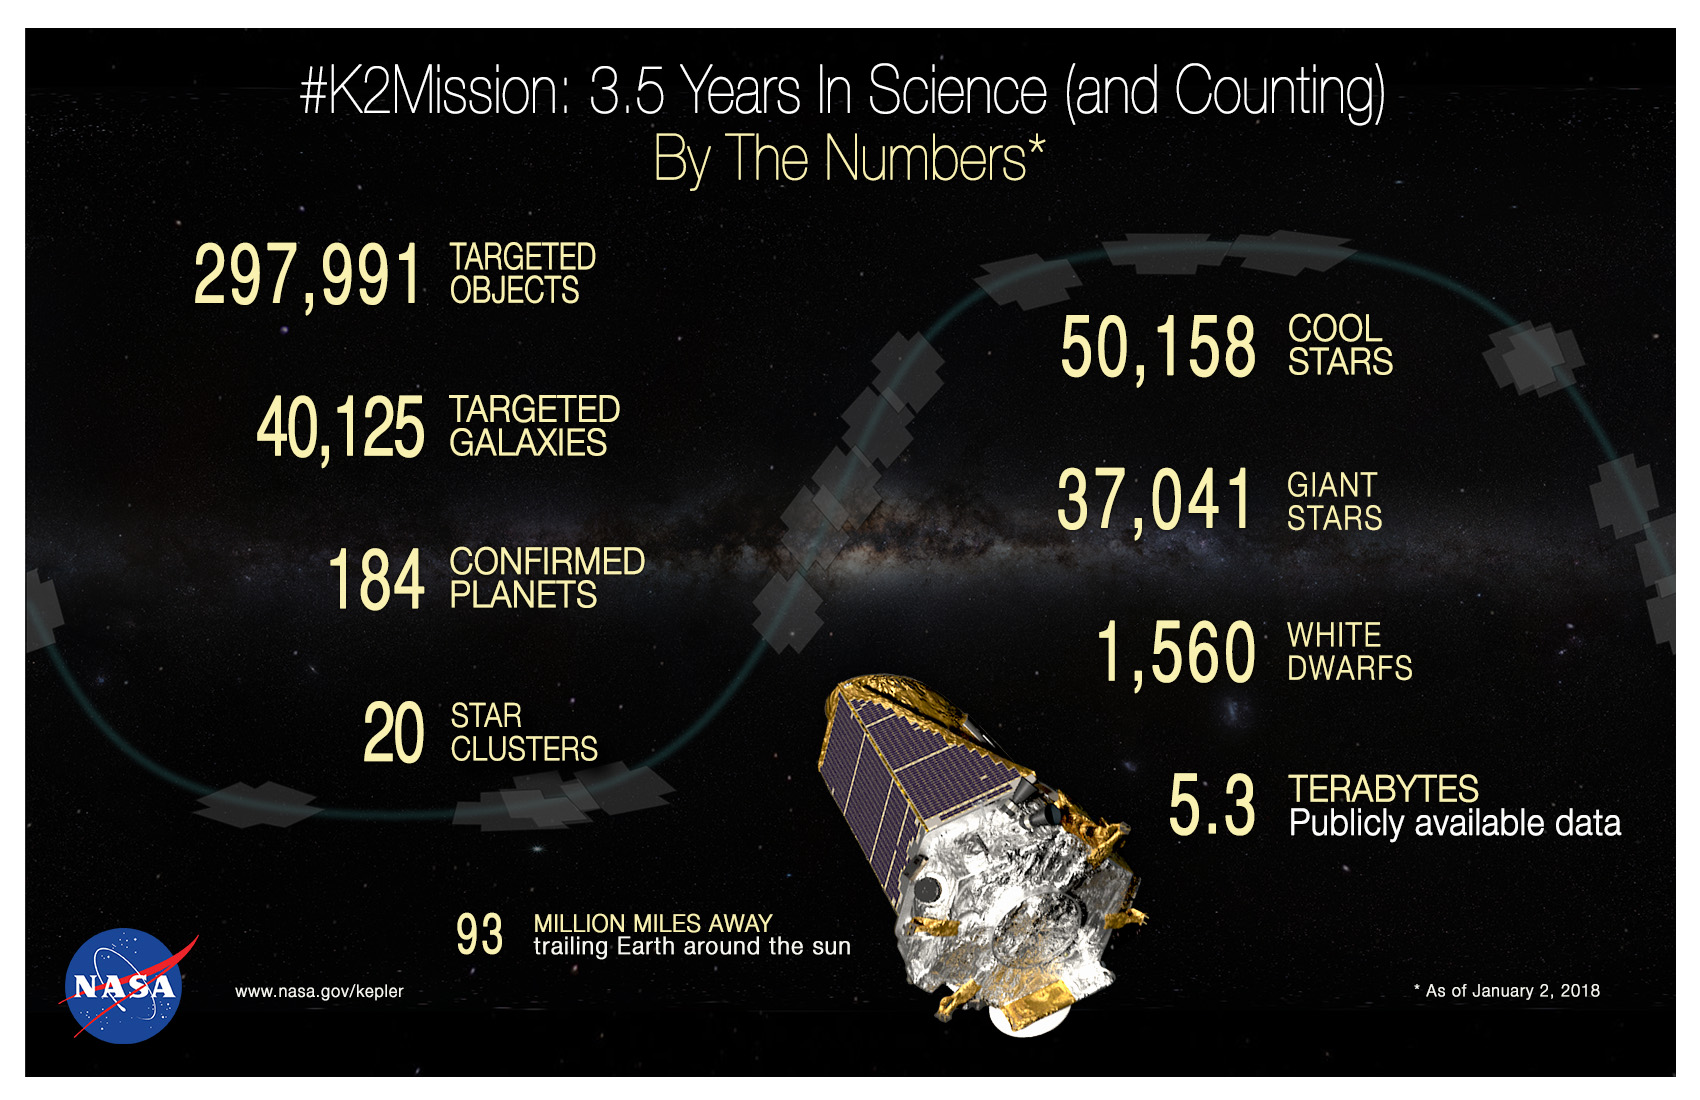
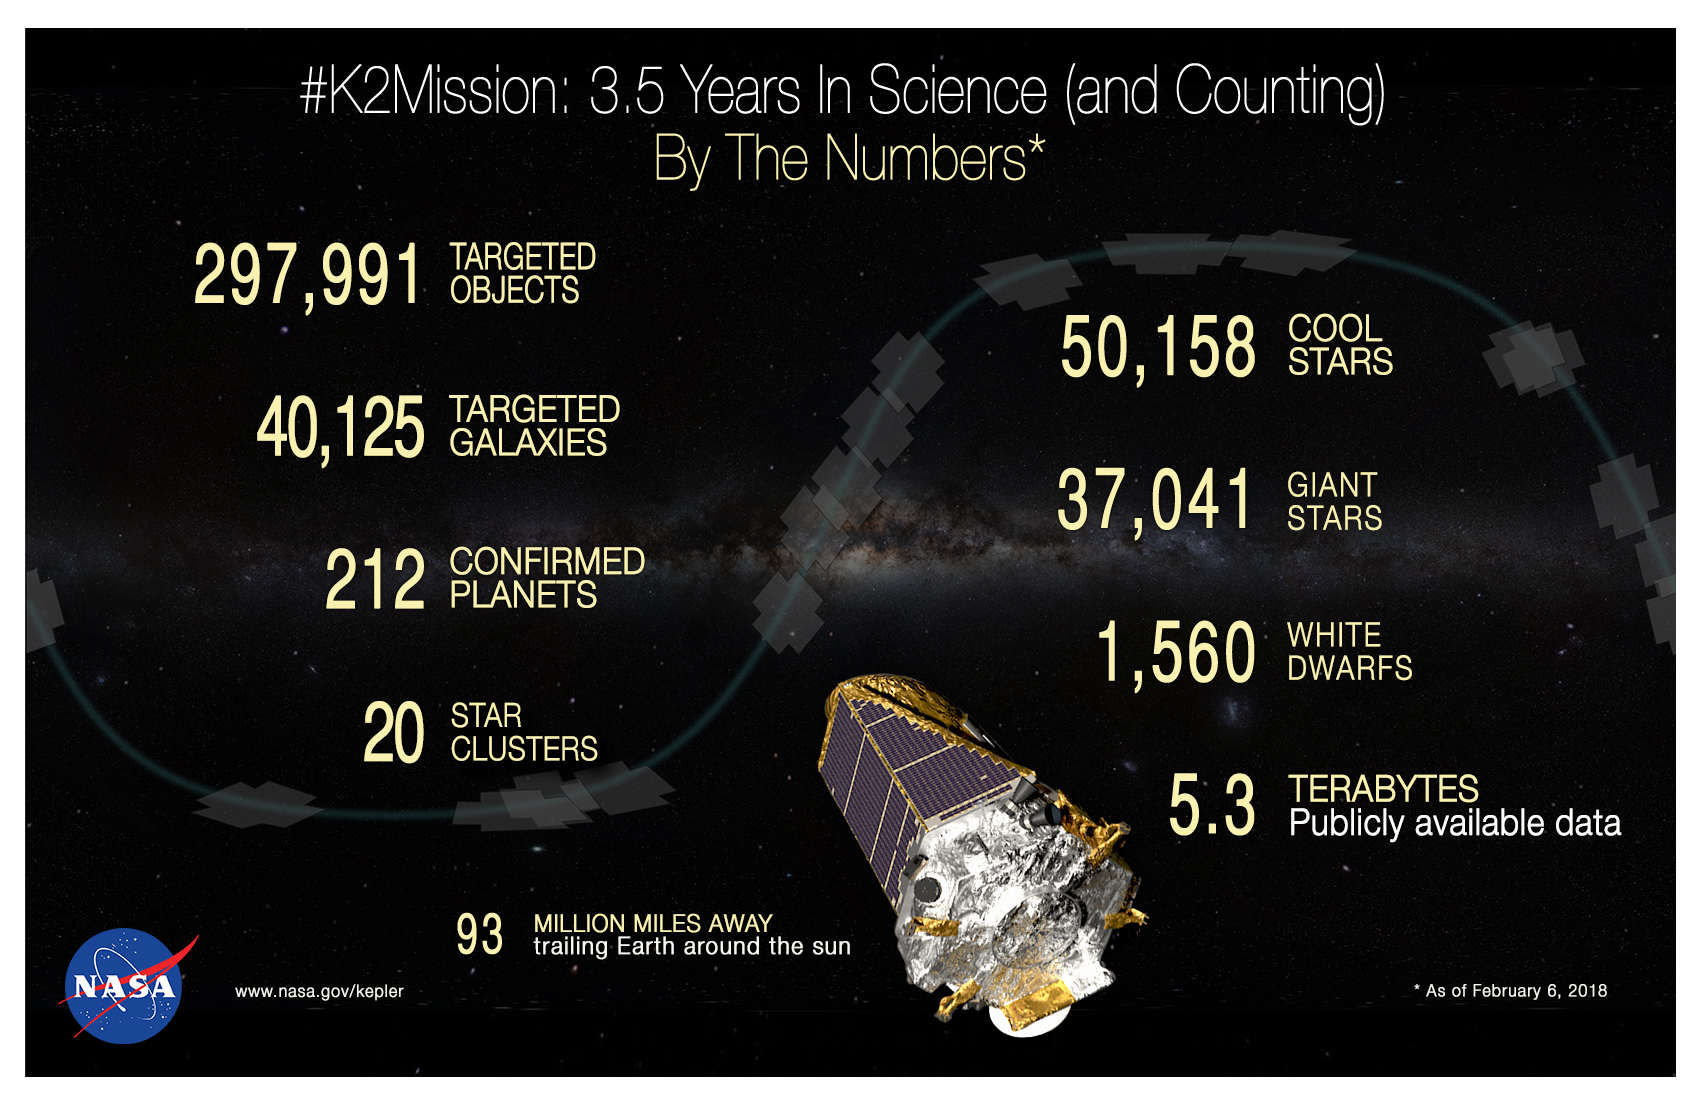
update flyer

diff --git a/content/news/2018-k2-by-the-numbers.md b/content/news/2018-k2-by-the-numbers.md
@@ -8,17 +8,16 @@ the K2 mission has now targeted an estimated 297,991 objects, including
 37,041 giant stars,
 40,125 galaxies,
 and 1,560 white dwarfs.
+**The number of confirmed K2 planets recently surpassed 200 and
+<a href="https://exoplanetarchive.ipac.caltech.edu/docs/counts_detail.html">now stands at 212</a>!**
+
 The flyer below, which was distributed at the recent Winter AAS meeting,
 summarizes a few of these statistics.
 
 These numbers will further increase upon the upcoming data releases
-for Campaign 15 and 16 (expected by March and June).
+for Campaign 15 and 16.
 We also note that the numbers do not include the very large number of objects observed
 as part of the large "superstamps" collected towards the Galactic Bulge
 and multiple clusters.
-
-Although the flyer below is only a few weeks old,
-the number of confirmed planets is already outdated:
-**the K2 confirmed planets count surpassed 200 on February 5th and <a href="https://exoplanetarchive.ipac.caltech.edu/docs/counts_detail.html">currently stands at 212 planets</a>**.
 
 <a href="images/news/k2-by-the-numbers-dec2017.jpg"><img src="images/news/k2-by-the-numbers-dec2017.jpg"></a>
